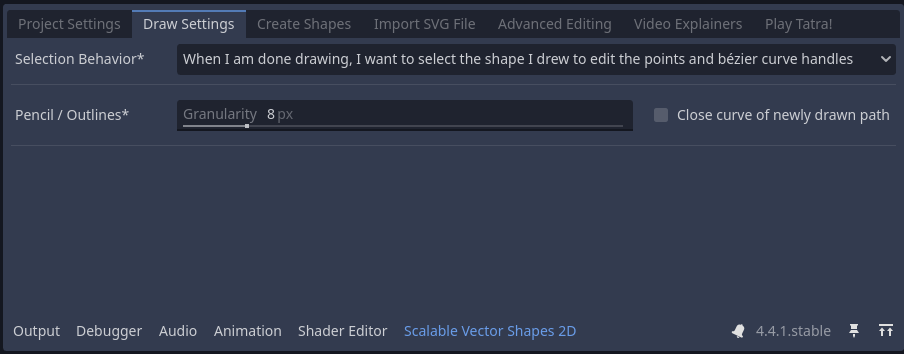
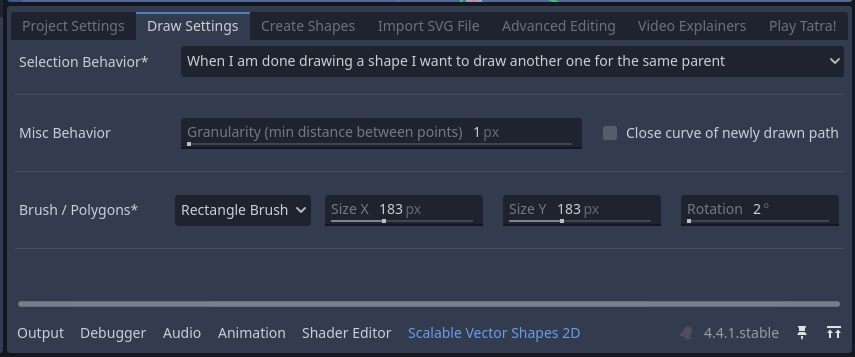
prepares release.

Changed region(s): [[0.0, 0.0, 1.0, 0.9944]]

diff --git a/README.md b/README.md
@@ -73,6 +73,7 @@ In this 10 minute video I explain how to use all the features of Scalable Vector
 	- [Sticking two or more shapes together by vertex merge](#sticking-two-or-more-shapes-together-by-vertex-merge)
 - [Free-hand Drawing](#free-hand-drawing)
 	- [Drawing strokes and outlines with the Pencil Tool](#drawing-strokes-and-outlines-with-the-pencil-tool)
+	- [Drawing polygons using the Brush Tool](#drawing-polygons-using-the-brush-tool)
 - [Manipulating 2D Shapes in the 3D export](#manipulating-2d-shapes-in-the-3d-export)
 	- [Animating 3D curves](#animating-3d-curves)
 - [Manipulating gradients](#manipulating-gradients)
@@ -258,6 +259,7 @@ Since release 2.21, free hand drawing tools are being added. Settings for these 
     - edit its points and curve handles (toggling off the current draw mode)
 - Pencil / Outline draw granularity: the distance between points expressed as pixels at the active zoom level of the 2D Editor Viewport
 - Close curve of newly drawn paths
+- Brush shape settings (ellipse or rect, size and rotation)
 
 # The Advanced Tab
 
@@ -508,6 +510,18 @@ Clicking and dragging the mouse draws a line with points of configurable granula
 By holding shift and left-clicking, straight lines can be drawn: 
 
 ![pencil draw straight](./addons/curved_lines_2d/screenshots/pencil-draw-straight.gif)
+
+
+## Drawing polygons using the Brush Tool
+
+Click and drag the mouse to draw polygons.
+
+![the brush tool](./addons/curved_lines_2d/screenshots/brush_tool.gif)
+
+Using the mousewheel you can change the brush shape while holding command keys:
+- `Ctrl/Cmd`: toggle between rect and ellipse
+- `Shift`: increase and decrease brush size
+- `Ctr+Shift`: rotate the brush
 
 
 Configuration options for this tool are described under [The Draw Settings tab](#the-draw-settings-tab)

diff --git a/addons/curved_lines_2d/README.md b/addons/curved_lines_2d/README.md
@@ -73,6 +73,7 @@ In this 10 minute video I explain how to use all the features of Scalable Vector
   - [Sticking two or more shapes together by vertex merge](#sticking-two-or-more-shapes-together-by-vertex-merge)
 - [Free-hand Drawing](#free-hand-drawing)
   - [Drawing strokes and outlines with the Pencil Tool](#drawing-strokes-and-outlines-with-the-pencil-tool)
+  - [Drawing polygons using the Brush Tool](#drawing-polygons-using-the-brush-tool)
 - [Manipulating 2D Shapes in the 3D export](#manipulating-2d-shapes-in-the-3d-export)
   - [Animating 3D curves](#animating-3d-curves)
 - [Manipulating gradients](#manipulating-gradients)
@@ -258,6 +259,7 @@ Since release 2.21, free hand drawing tools are being added. Settings for these 
     - edit its points and curve handles (toggling off the current draw mode)
 - Pencil / Outline draw granularity: the distance between points expressed as pixels at the active zoom level of the 2D Editor Viewport
 - Close curve of newly drawn paths
+- Brush shape settings (ellipse or rect, size and rotation)
 
 # The Advanced Tab
 
@@ -508,6 +510,18 @@ Clicking and dragging the mouse draws a line with points of configurable granula
 By holding shift and left-clicking, straight lines can be drawn: 
 
 ![pencil draw straight](./screenshots/pencil-draw-straight.gif)
+
+
+## Drawing polygons using the Brush Tool
+
+Click and drag the mouse to draw polygons.
+
+![the brush tool](./screenshots/brush_tool.gif)
+
+Using the mousewheel you can change the brush shape while holding command keys:
+- `Ctrl/Cmd`: toggle between rect and ellipse
+- `Shift`: increase and decrease brush size
+- `Ctr+Shift`: rotate the brush
 
 
 Configuration options for this tool are described under [The Draw Settings tab](#the-draw-settings-tab)

diff --git a/CHANGELOG.md b/CHANGELOG.md
@@ -1,5 +1,17 @@
 # Changelog
 
+
+## 2.22.0
+
+## Added
+
+- Curve fitting algorithm to greatly reduce the number of points after using the polygon brush
+
+## Changed
+
+- Reorganized the 2D editor buttons to make more sense.
+
+
 ## 2.21.3
 
 ### Added